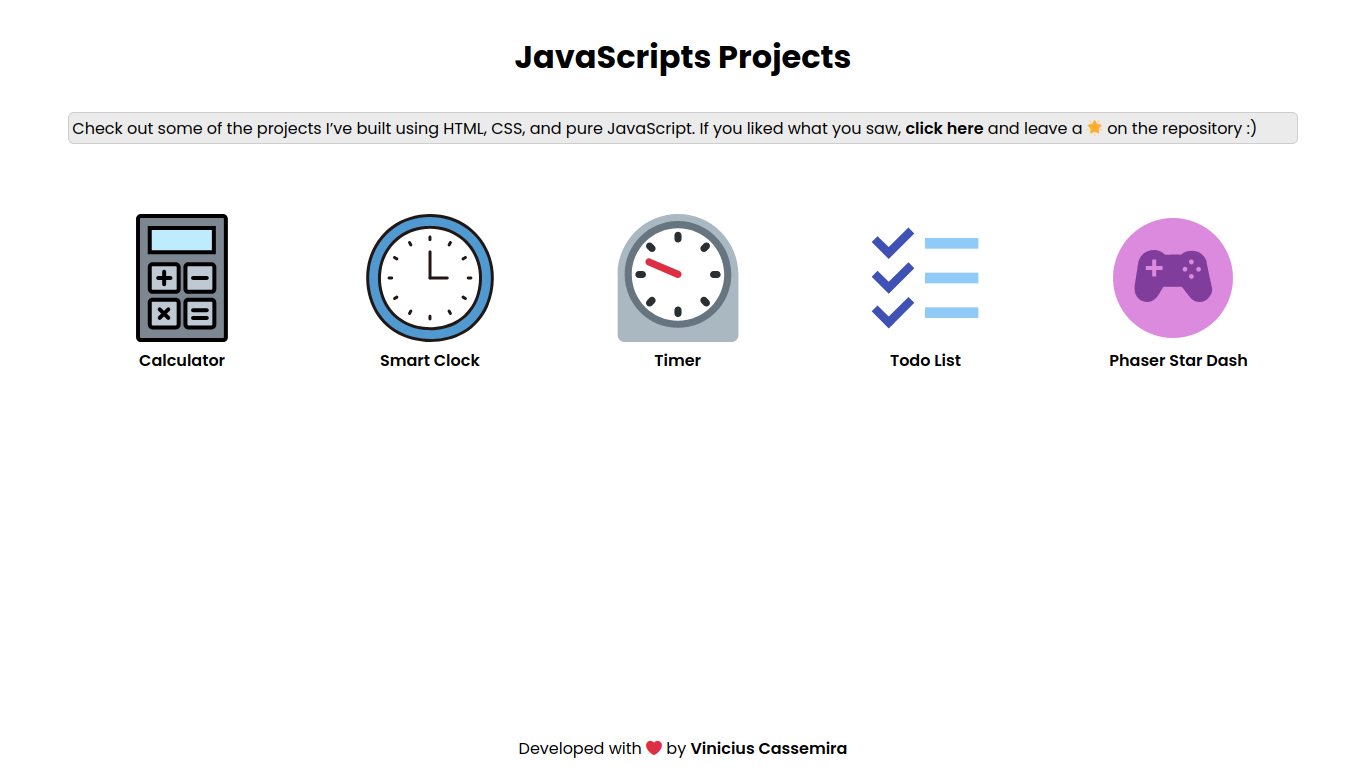
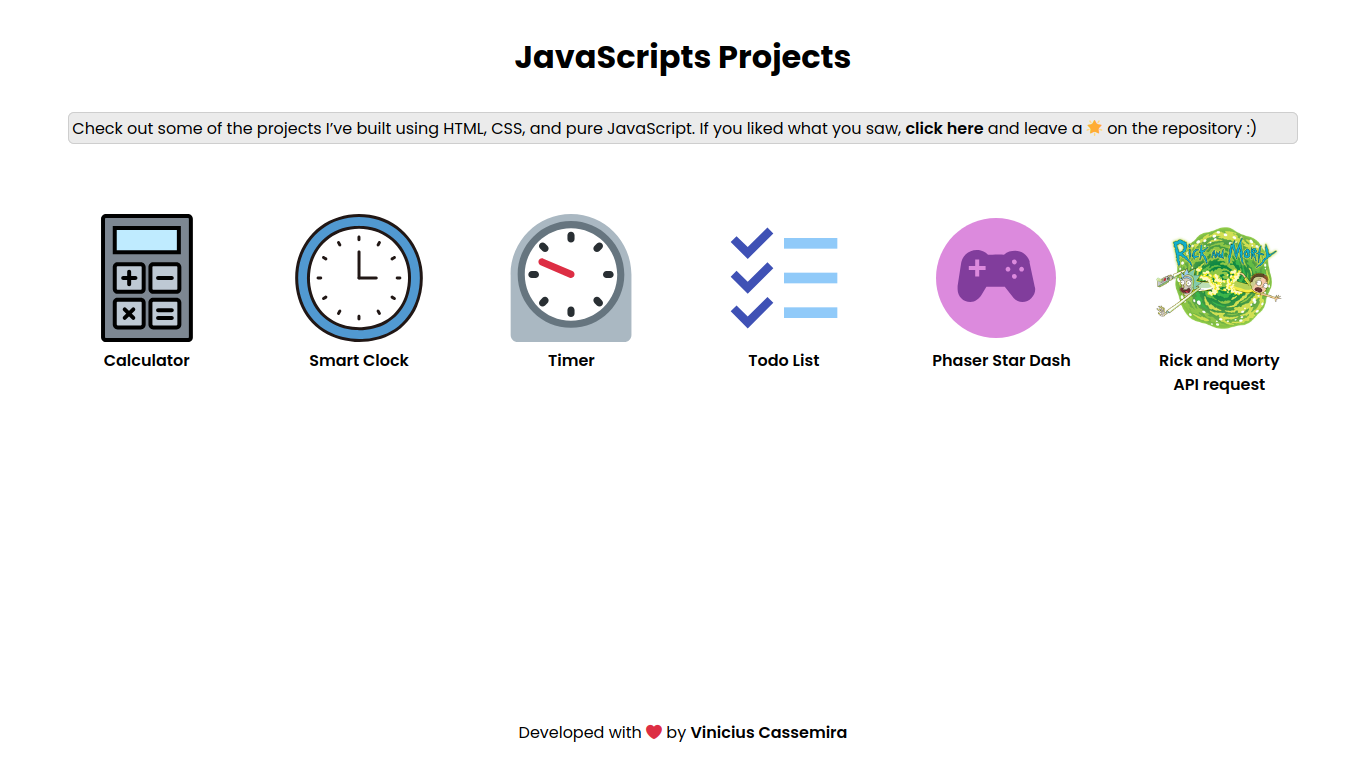
feat: add rick and morty project

diff --git a/rick-and-morty/app.js b/rick-and-morty/app.js
@@ -1,0 +1,145 @@
+const URL = 'https://rickandmortyapi.com/api/character?name=';
+let character = document.getElementById('input'); 
+const response = document.getElementById('response');
+let button = document.getElementById('search-button');
+let resultContent = document.getElementById('result-content');
+const buttonPrev = document.getElementById('button-prev');
+const buttonNext = document.getElementById('button-next');
+
+let obj;
+
+character.addEventListener('input', inputButton);
+
+function inputButton(){
+    if(character.value.length > 0){
+        button.style.pointerEvents='auto';
+        button.style.backgroundColor='green';
+    }else{
+        button.style.pointerEvents='none';
+        button.style.backgroundColor='rgb(223, 223, 223)';
+    }
+}
+
+function verify(){
+    if (obj.info.prev !== null){
+        buttonPrev.style.visibility='visible';
+    }else{
+        buttonPrev.style.visibility='hidden';
+    };
+
+    if (obj.info.next !== null){
+        buttonNext.style.visibility='visible';
+    }else{
+        buttonNext.style.visibility='hidden';
+    };
+}
+
+function reset(){
+    character.value ='';
+    response.style.visibility = 'hidden';
+    buttonPrev.style.visibility = 'hidden';
+    buttonNext.style.visibility = 'hidden';
+    clean();
+}
+
+function clean(){
+    resultContent.innerHTML = '';
+    character.focus();
+    inputButton();
+}
+
+async function first(){
+    obj = await chamaJson(URL + character.value);
+    if(obj !== null){
+        response.innerHTML = obj.info.count+ ' results found';
+        response.style.visibility = 'visible';
+    }else{
+        response.innerHTML = 'no results found';
+        response.style.visibility = 'visible';
+    }
+
+    clean();
+
+    verify();
+
+    obj.results.forEach(item => {
+        if(item){
+            writeResults(item.id, item.name, item.status);
+        }
+    });
+
+    console.log(obj);
+
+    response.style.visibility='visible';
+}
+
+async function firstInt(link){
+
+    clean();
+    
+    obj = await chamaJson(link);
+    
+    verify();
+    
+    obj.results.forEach(item => {
+        if(item){
+            writeResults(item.id, item.name, item.status);
+        }
+    });
+}
+
+async function chamaJson(_link){
+    const _response = await fetch(_link);
+    if(_response.status === 200){
+        return await _response.json();
+    }
+
+    return null;
+}
+
+function writeResults(_id, _name, _status){
+
+    let tableResult = document.querySelector("#resultTable");
+
+    if(!tableResult){   
+        tableResult = document.createElement("table");
+        tableResult.id = "resultTable";
+
+        const headerRow = document.createElement("tr");
+        const tableHeader = ["Id", "Name", "Status"];
+        tableHeader.forEach(item => {
+            const th = document.createElement("th");
+            th.innerText = item;
+            headerRow.appendChild(th);
+        });
+        tableResult.appendChild(headerRow);
+
+        resultContent.appendChild(tableResult);
+    }
+
+    const tr = document.createElement("tr");
+
+    const idTd = document.createElement("td");
+    idTd.innerText = _id;
+    tr.appendChild(idTd);
+
+    const idName = document.createElement("td");
+    idName.innerText = _name;
+    tr.appendChild(idName);
+
+    const idStatus = document.createElement("td");
+    idStatus.innerText = _status;
+    tr.appendChild(idStatus);
+
+    tableResult.appendChild(tr);
+}
+
+async function next(){
+    const link = obj.info.next;
+    await firstInt(link);
+}
+
+async function prev(){
+    const link = obj.info.prev;
+    await firstInt(link);
+}

diff --git a/rick-and-morty/style.css b/rick-and-morty/style.css
@@ -1,0 +1,132 @@
+*{
+    margin: 0;
+    padding: 0;
+    box-sizing: border-box;
+}
+
+h1{
+    color: #dadada;
+}
+
+body{
+    background-color: #3a3a47;
+    display: flex;
+    flex-direction: column;
+    font-family: arial;
+    font-weight: bold;
+    min-height: 100vh;
+    min-width: 100vh;
+}   
+
+#button-area{
+    display: flex;
+    justify-content: space-around;
+}
+
+#button-prev, #button-next{
+    width: 40%;
+    height: 22px;
+    visibility: hidden;
+    background-color: rgb(70, 121, 168);
+    border:none;
+    color: white;
+    cursor: pointer;
+    border-radius: 6px;
+}
+
+#search-button{
+    width: 60px;
+    height: 24px;
+    pointer-events: none;
+    background-color: rgb(223, 223, 223);
+    border: none;
+    border-radius: 6px;
+    cursor: pointer;
+}
+
+#clear-button{
+    width: 60px;
+    height: 24px;
+    background-color: rgb(146, 242, 255);
+    border: none;
+    border-radius: 6px;
+    cursor: pointer;
+    color: rgb(58, 58, 58);
+}
+
+#content{
+    width: max-content;
+    height: max-content;
+    text-align: center;
+    display: flex;
+    flex-direction: column;
+    gap: 15px;
+    margin: auto;
+}
+
+footer{
+    text-align: center;
+    width: 100%;
+    color: white;
+}
+
+footer a{
+    text-decoration: underline;
+    color: white;
+}
+
+footer p{
+    margin: 3px;
+}
+
+
+input{
+    width: 230px;
+    height: 24px;
+}
+
+#response{
+    color: #f0f0f5;
+    visibility: hidden;
+}
+
+#result-content{
+    width: 400px;
+    min-height: 200px;
+    /* background-color: #696979; */
+    display: flex;
+    align-items: flex-start;
+    justify-content: center;
+}
+
+#resultTable{
+    border-collapse: collapse;
+    border: 1px solid #696979;
+}
+
+#resultTable tr {
+    padding: 10px;
+}
+
+#resultTable td {
+    padding: 3px;
+    color: #ececec;
+}
+
+/* Altera a cor de fundo das células ímpares */
+tr:nth-child(odd) {
+    background-color: #474747; /* Cor de fundo para as células ímpares */
+}
+
+/* Altera a cor de fundo das células pares */
+tr:nth-child(even) {
+    background-color: #868686; /* Cor de fundo para as células pares */
+}
+
+#resultTable th{
+    background-color: rgb(48, 41, 41);
+    color: white;
+    text-align: center;
+    padding: 4px;
+    /* border: 1px solid black; */
+}

diff --git a/rick-and-morty/index.html b/rick-and-morty/index.html
@@ -1,0 +1,44 @@
+<!DOCTYPE html>
+<html lang="en">
+<head>
+    <meta charset="UTF-8">
+    <meta name="viewport" content="width=device-width, initial-scale=1.0">
+    <link rel="stylesheet" href="./style.css">
+    <link rel="icon" href="./img/favicon.svg">
+    <title>API consumption test</title>
+</head>
+<body>
+    <div id="content">
+        <h1>Rick and Morty API request</h1>
+        
+        <div>
+            <input type="text" id="input" placeholder="type a character from Rick and Morty">
+            <button id="search-button" onclick="first()">Search</button>
+            <button id="clear-button" onclick="reset()">Clean</button>
+        </div>
+
+        <p id="response"></p>
+
+        <div id="result-content">
+        </div>
+        
+        <div id="button-area">
+            <button id="button-prev" onclick="prev()">prev</button>
+            <button id="button-next" onclick="next()">next</button>
+        </div>
+        
+
+
+    </div>
+    <footer>
+        <p>
+            develop by <a href="https://github.com/ViniciusCassemira">Vinicius Cassemira</a>
+        </p>
+        <p>
+            v1.0
+        </p>
+    </footer>
+
+    <script src="./app.js"></script>
+</body>
+</html>

diff --git a/index.html b/index.html
@@ -50,6 +50,13 @@
                     <p class="description">Phaser Star Dash</p>
                 </a>          
             </div>
+
+            <div class="project">
+                <a target="_blank" href="./rick-and-morty/index.html">
+                    <img src="./src/rick-and-morty.png" alt="Rick and Morty image">
+                    <p class="description">Rick and Morty<br>API request</p>
+                </a>          
+            </div>
         </div>
     </main>
 

diff --git a/README.md b/README.md
@@ -17,6 +17,7 @@ Check out the complete list of all existing projects below, view their details o
 | **Timer** | [Click here](./timer/) | [View project](https://vinicius-js.netlify.app/timer/) |
 | **Todo list** | [Click here](./todo-list/) | [View project](https://vinicius-js.netlify.app/todo-list/) |
 | **Star dash** | [Click here](./phaser-star-dash/) | [View project](https://vinicius-js.netlify.app/phaser-star-dash/) |
+| **Rick and Morty API Request** | [Click here](./rick-and-morty/) | [View project](https://vinicius-js.netlify.app/rick-and-morty/) |
 
 ---
 

diff --git a/rick-and-morty/README.md b/rick-and-morty/README.md
@@ -1,0 +1,2 @@
+# rickAndMorty-api-request
+my first API request made in JS
